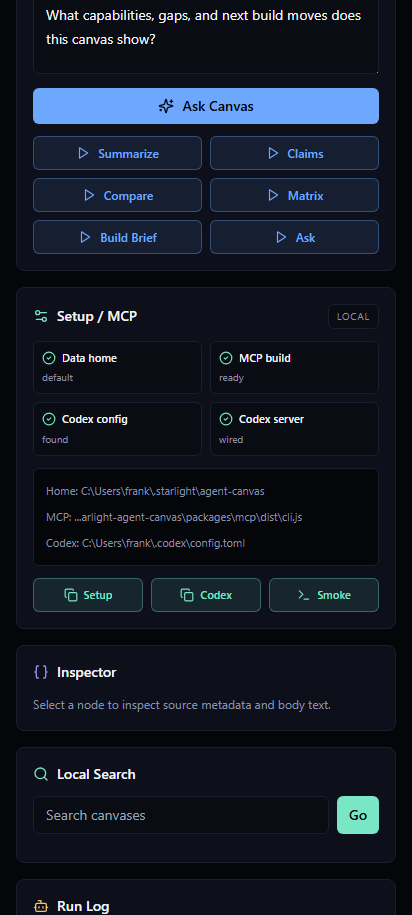
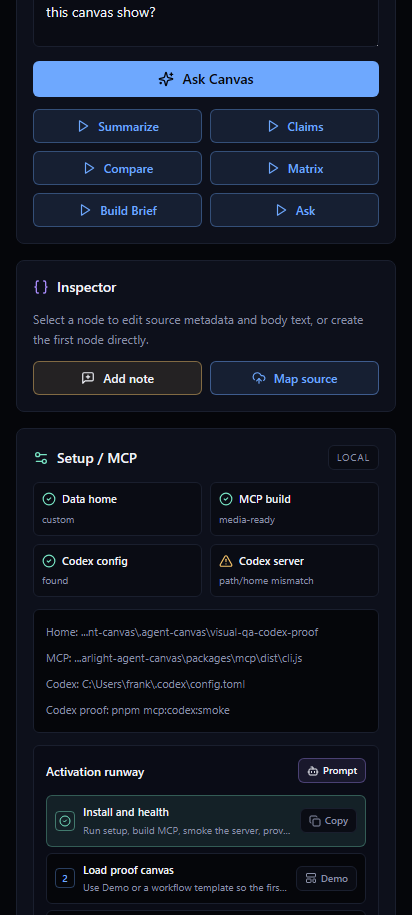
Prove Codex MCP config path

diff --git a/apps/web/app/api/setup/status/route.ts b/apps/web/app/api/setup/status/route.ts
@@ -24,6 +24,9 @@ type FirstSuccessContract = {
     codexUse: string;
     status: string;
   }>;
+  commands?: {
+    proof?: string[];
+  };
 };
 
 function getAgentCanvasHome(): string {
@@ -163,6 +166,7 @@ export async function GET() {
       configuredHome: codex.configuredHome,
       installDryRunCommand: 'pnpm mcp:install:codex',
       installWriteCommand: 'pnpm mcp:install:codex -- --write',
+      smokeCommand: 'pnpm mcp:codex:smoke',
     },
     setup: {
       localCommand: 'pnpm setup:local',
@@ -184,7 +188,7 @@ export async function GET() {
       contractCommand: 'pnpm first-success',
       jsonCommand: 'pnpm first-success:json',
       docs: ['docs/first-success.md', 'docs/first-success.contract.json', 'docs/operator-loop.md'],
-      proofCommands: ['pnpm first-run:check', 'pnpm canvas:smoke', 'pnpm mcp:smoke'],
+      proofCommands: firstSuccessContract.commands?.proof ?? ['pnpm first-run:check', 'pnpm canvas:smoke', 'pnpm mcp:smoke', 'pnpm mcp:codex:smoke'],
       phases: firstSuccessContract.phases.map((phase) => ({
         id: phase.id,
         label: phase.label,
@@ -234,7 +238,7 @@ export async function GET() {
         {
           id: 'install',
           label: 'Install and health',
-          detail: 'Run setup, build MCP, smoke the server, seed a canvas, and verify local health.',
+          detail: 'Run setup, build MCP, smoke the server, prove the Codex config path, seed a canvas, and verify local health.',
           command: 'node scripts/setup.mjs',
         },
         {

diff --git a/apps/web/tests/workspace.spec.ts b/apps/web/tests/workspace.spec.ts
@@ -19,7 +19,7 @@ test('workspace maps sources and answers from the canvas', async ({ page }, test
   const setupJson = await setupStatus.json() as {
     canvasHome: string;
     mcp: { smokeCommand: string };
-    codex: { installWriteCommand: string };
+    codex: { installWriteCommand: string; smokeCommand: string };
     adoption: { reportCommand: string; jsonCommand: string };
     firstSuccess: {
       schemaVersion: string;
@@ -35,11 +35,13 @@ test('workspace maps sources and answers from the canvas', async ({ page }, test
   expect(setupJson.canvasHome).toBeTruthy();
   expect(setupJson.mcp.smokeCommand).toBe('pnpm mcp:smoke');
   expect(setupJson.codex.installWriteCommand).toBe('pnpm mcp:install:codex -- --write');
+  expect(setupJson.codex.smokeCommand).toBe('pnpm mcp:codex:smoke');
   expect(setupJson.adoption.reportCommand).toBe('pnpm adoption:report');
   expect(setupJson.adoption.jsonCommand).toBe('pnpm adoption:report:json');
   expect(setupJson.firstSuccess.contractCommand).toBe('pnpm first-success');
   expect(setupJson.firstSuccess.jsonCommand).toBe('pnpm first-success:json');
   expect(setupJson.firstSuccess.proofCommands).toContain('pnpm first-run:check');
+  expect(setupJson.firstSuccess.proofCommands).toContain('pnpm mcp:codex:smoke');
   expect(setupJson.firstSuccess.schemaVersion).toBe('starlight.agentCanvas.firstSuccess.v1');
   expect(setupJson.firstSuccess.phases.map((phase) => phase.id)).toEqual(['install', 'open', 'capture', 'inspect', 'handoff', 'codex']);
   expect(setupJson.firstSuccess.inputContracts.map((contract) => contract.id)).toEqual(['youtube', 'video', 'image', 'web', 'pdf', 'text', 'note']);
@@ -79,6 +81,7 @@ test('workspace maps sources and answers from the canvas', async ({ page }, test
   await expect(page.getByTestId('operator-loop-map')).toContainText('no source');
   await expect(page.getByTestId('setup-panel')).toContainText('Setup / MCP');
   await expect(page.getByTestId('setup-panel')).toContainText('Codex server');
+  await expect(page.getByTestId('setup-panel')).toContainText('Codex proof');
   await expect(page.getByTestId('setup-codex-handoff')).toBeEnabled();
   await expect(page.getByTestId('agent-toolbelt')).toContainText('Agent toolbelt');
   await expect(page.getByTestId('agent-tool-get_latest_canvas')).toContainText('get_latest_canvas');

diff --git a/apps/web/components/WorkspaceClient.tsx b/apps/web/components/WorkspaceClient.tsx
@@ -182,6 +182,7 @@ type SetupStatus = {
     configuredHome: string;
     installDryRunCommand: string;
     installWriteCommand: string;
+    smokeCommand: string;
   };
   setup: {
     localCommand: string;
@@ -1053,6 +1054,7 @@ function WorkspaceInner() {
     { label: 'Setup', command: setupStatus.setup.localCommand },
     { label: 'Codex', command: setupStatus.codex.installWriteCommand },
     { label: 'Smoke', command: setupStatus.mcp.smokeCommand },
+    { label: 'Proof', command: setupStatus.codex.smokeCommand },
     { label: 'Report', command: setupStatus.adoption.reportCommand },
   ] : [], [setupStatus]);
   const activationRunway = useMemo(() => {
@@ -3997,6 +3999,7 @@ function WorkspaceInner() {
                     <div className="truncate">Home: {shortPath(setupStatus.canvasHome)}</div>
                     <div className="truncate">MCP: {shortPath(setupStatus.mcp.cliPath)}</div>
                     <div className="truncate">Codex: {shortPath(setupStatus.codex.configPath)}</div>
+                    <div className="truncate">Codex proof: {setupStatus.codex.smokeCommand}</div>
                   </div>
                   <div className="mt-3 rounded-md border border-starlight-border bg-starlight-surface/70 p-3" data-testid="activation-runway">
                     <div className="flex items-center justify-between gap-3">

diff --git a/docs/github-readiness.md b/docs/github-readiness.md
@@ -75,19 +75,20 @@ Use labels:
 7. Run `pnpm verify`.
 8. Run `pnpm canvas:smoke`.
 9. Run `pnpm mcp:smoke`.
-10. Run `pnpm first-run:check` to prove a fresh production preview can boot, import the demo canvas, and export context from a temporary data home.
-11. Run `pnpm test:e2e`.
-12. Confirm `/api/setup/status` exposes `activation.steps`, `firstSuccess.phases`, proof commands, and the Codex activation prompt.
-13. Run `pnpm setup:local -- --skip-install --skip-seed` as the install path smoke.
-14. Run `pnpm mcp:install:codex` and verify the dry-run block points at the built MCP server; after `--write`, rerun `pnpm doctor`.
-15. Run the Starlight staged/full security scan.
-16. Confirm visual QA screenshots are current.
-17. Confirm `AGENT_CANVAS_HOME` runtime data is not staged.
-18. Confirm `.env` and private canvas exports are not staged.
-19. Confirm `pnpm release:audit` reports required public files are tracked or staged, not merely present in the local working tree.
-20. Update README links and docs index.
-21. Keep CODEOWNERS pointed at the active maintainer account or team before enforcing owner review.
-22. Tag release only after GitHub CI passes.
+10. Run `pnpm mcp:codex:smoke` to prove the Codex config installer through a temporary config and temporary canvas home without mutating the real user config.
+11. Run `pnpm first-run:check` to prove a fresh production preview can boot, import the demo canvas, and export context from a temporary data home.
+12. Run `pnpm test:e2e`.
+13. Confirm `/api/setup/status` exposes `activation.steps`, `firstSuccess.phases`, proof commands, and the Codex activation prompt.
+14. Run `pnpm setup:local -- --skip-install --skip-seed` as the install path smoke.
+15. Run `pnpm mcp:install:codex` and verify the dry-run block points at the built MCP server; after `--write`, rerun `pnpm doctor`.
+16. Run the Starlight staged/full security scan.
+17. Confirm visual QA screenshots are current.
+18. Confirm `AGENT_CANVAS_HOME` runtime data is not staged.
+19. Confirm `.env` and private canvas exports are not staged.
+20. Confirm `pnpm release:audit` reports required public files are tracked or staged, not merely present in the local working tree.
+21. Update README links and docs index.
+22. Keep CODEOWNERS pointed at the active maintainer account or team before enforcing owner review.
+23. Tag release only after GitHub CI passes.
 
 Public install proof to keep current:
 
@@ -100,7 +101,7 @@ node scripts/setup.mjs
 pnpm dev
 ```
 
-The setup script must remain explicit about what it does: dependency install, doctor, MCP build, MCP smoke, seed, and Codex config dry-run unless `--codex-write` is supplied.
+The setup script must remain explicit about what it does: dependency install, doctor, MCP build, MCP smoke, Codex config smoke, seed, and Codex config dry-run unless `--codex-write` is supplied.
 
 Use `docs/readiness-evidence.md` as the current proof matrix before tagging or announcing a release. Use `docs/release-audit.md` for the local machine-checkable release gate.
 

diff --git a/docs/install.md b/docs/install.md
@@ -66,8 +66,9 @@ The setup script:
 2. Builds the MCP server.
 3. Runs `pnpm doctor`.
 4. Runs the MCP smoke test against a throwaway local data home.
-5. Seeds the `Starlight Agent Canvas OS` local canvas.
-6. Prints the Codex MCP config block as a dry-run.
+5. Runs the Codex config smoke test against a temporary config and data home.
+6. Seeds the `Starlight Agent Canvas OS` local canvas.
+7. Prints the Codex MCP config block as a dry-run.
 
 Optional flags:
 
@@ -82,6 +83,7 @@ node scripts/setup.mjs --skip-seed
 `--codex-write` updates `~/.codex/config.toml` and creates a timestamped backup first.
 
 `pnpm doctor` verifies the local prerequisites, workspace files, built MCP server, `.mcp.json`, and Codex wiring. The Codex check only reports fully wired when the installed config points at this repository's current `packages/mcp/dist/cli.js` and the active `AGENT_CANVAS_HOME`.
+`pnpm mcp:codex:smoke` verifies the same installer path without touching your real Codex config. It writes a temporary Codex config, points it at a temporary `AGENT_CANVAS_HOME`, runs `doctor --config` against that file, and cleans up.
 
 Machine-readable install status is available for agents, CI, and setup automation:
 
@@ -206,9 +208,11 @@ pnpm mcp:config -- --client json
 pnpm mcp:install:codex
 pnpm mcp:install:codex -- --write
 pnpm mcp:smoke
+pnpm mcp:codex:smoke
 ```
 
 `pnpm mcp:install:codex` is a dry-run. It prints the target config path and the exact TOML block. Add `-- --write` to install or replace only the `starlight-agent-canvas` MCP sections in Codex config, preserving unrelated settings and creating a backup first.
+Run `pnpm mcp:codex:smoke` before writing when you want non-mutating proof that the generated block is parseable by `doctor`.
 
 Use generated config for real MCP clients because it prints absolute paths for the current machine:
 
@@ -239,6 +243,7 @@ The same exports are available from the terminal with `pnpm canvas -- export <ca
 ## Troubleshooting
 
 - `pnpm doctor` warns that the MCP server is not built: run `pnpm mcp:build`.
+- `pnpm mcp:codex:smoke` fails: run `pnpm mcp:build`, then rerun the smoke. It uses temp files, so failures do not modify your real Codex config.
 - `pnpm doctor` says Codex has a path/home mismatch: run `pnpm mcp:install:codex -- --write`, restart Codex, then run `pnpm doctor` again.
 - The app cannot find canvases: check `AGENT_CANVAS_HOME`.
 - `Paste & Map` says clipboard read was blocked or empty: the composer is focused on purpose. Press `Ctrl+V` in that field, type manually, or drop the source onto the graph.

diff --git a/README.md b/README.md
@@ -107,9 +107,10 @@ node scripts/setup.mjs --skip-install
 pnpm dev
 ```
 
-`node scripts/setup.mjs` runs dependency install, MCP build, doctor, MCP smoke, Starlight OS canvas seed, and a dry-run Codex MCP config print. Use `node scripts/setup.mjs --codex-write` when you want it to update `~/.codex/config.toml` with a timestamped backup.
+`node scripts/setup.mjs` runs dependency install, MCP build, doctor, MCP smoke, Codex config smoke, Starlight OS canvas seed, and a dry-run Codex MCP config print. Use `node scripts/setup.mjs --codex-write` when you want it to update `~/.codex/config.toml` with a timestamped backup.
 
 `pnpm doctor` now verifies local prerequisites, workspace files, the built MCP server, `.mcp.json`, and whether Codex is wired to this exact MCP CLI path and `AGENT_CANVAS_HOME`.
+`pnpm mcp:codex:smoke` proves the Codex installer path without mutating your real Codex config: it writes a temporary `config.toml`, runs `doctor --config` against that file, and removes the temp files.
 `pnpm first-success` prints the maintained human plus Codex activation contract; `pnpm first-success:json` emits the same contract for agents, setup helpers, issue triage, and CI.
 `pnpm adoption:report` turns doctor, release audit, demo proof, visual evidence, GitHub metadata, and Codex MCP status into one human-readable adoption snapshot; `pnpm adoption:report:json` emits the same contract for agents and CI.
 
@@ -120,6 +121,7 @@ pnpm install
 pnpm doctor
 pnpm mcp:build
 pnpm mcp:smoke
+pnpm mcp:codex:smoke
 pnpm canvas:smoke
 pnpm seed:starlight
 pnpm dev
@@ -175,6 +177,7 @@ pnpm mcp:config -- --client json
 pnpm mcp:install:codex
 pnpm mcp:install:codex -- --write
 pnpm mcp:smoke
+pnpm mcp:codex:smoke
 ```
 
 `pnpm mcp:start` is only for manual stdio debugging. Normal MCP clients spawn the server from the generated config. For Codex-specific operating guidance, see `docs/codex-integration.md`.
@@ -238,10 +241,11 @@ pnpm verify
 pnpm first-run:check
 pnpm canvas:smoke
 pnpm mcp:smoke
+pnpm mcp:codex:smoke
 pnpm test:e2e
 ```
 
-`pnpm first-success` is the explicit install-to-Codex success contract. `pnpm adoption:report` is the single adoption snapshot for humans and agents. It reads doctor JSON, first-success JSON, release audit JSON, demo canvas proof, visual evidence, Git/GitHub status, and Codex MCP path/home without mutating local data. `pnpm release:audit` checks GitHub/OSS files, install docs, required scripts, CI gates, first-success shape, demo canvas proof, visual evidence, env hygiene, and runtime-data safety. `pnpm verify` runs typecheck, unit/MCP tests, and production build. `pnpm doctor` verifies install and Codex wiring health; `pnpm doctor:json` emits the same health contract for agents, CI, and setup automation. `pnpm first-run:check` builds the production app, uses a temporary data home, starts a local preview, verifies setup status, imports the demo canvas, checks context export, proves mixed YouTube/video/image/web/text intake through `/api/canvases/:id/ingest/anything`, runs a local action, and shuts the preview down. `pnpm canvas:smoke` proves terminal demo import, list, search, context export, and Codex handoff export. `pnpm mcp:smoke` proves stdio source ingest, node update, action, import, and JSON/Markdown/context/Codex export against a local throwaway data home. `pnpm test:e2e` runs the desktop/mobile Playwright workflow.
+`pnpm first-success` is the explicit install-to-Codex success contract. `pnpm adoption:report` is the single adoption snapshot for humans and agents. It reads doctor JSON, first-success JSON, release audit JSON, demo canvas proof, visual evidence, Git/GitHub status, and Codex MCP path/home without mutating local data. `pnpm release:audit` checks GitHub/OSS files, install docs, required scripts, CI gates, first-success shape, demo canvas proof, visual evidence, env hygiene, and runtime-data safety. `pnpm verify` runs typecheck, unit/MCP tests, and production build. `pnpm doctor` verifies install and Codex wiring health; `pnpm doctor:json` emits the same health contract for agents, CI, and setup automation. `pnpm first-run:check` builds the production app, uses a temporary data home, starts a local preview, verifies setup status, imports the demo canvas, checks context export, proves mixed YouTube/video/image/web/text intake through `/api/canvases/:id/ingest/anything`, runs a local action, and shuts the preview down. `pnpm canvas:smoke` proves terminal demo import, list, search, context export, and Codex handoff export. `pnpm mcp:smoke` proves stdio source ingest, node update, action, import, and JSON/Markdown/context/Codex export against a local throwaway data home. `pnpm mcp:codex:smoke` proves the generated Codex MCP config path with a temporary config and temporary `AGENT_CANVAS_HOME`. `pnpm test:e2e` runs the desktop/mobile Playwright workflow.
 
 ## Technology
 

diff --git a/docs/codex-integration.md b/docs/codex-integration.md
@@ -10,13 +10,14 @@ Fast path:
 node scripts/setup.mjs --codex-write
 ```
 
-This installs dependencies, builds the MCP server, runs doctor, smoke-tests MCP, seeds the Starlight OS canvas, then updates Codex config with a timestamped backup.
+This installs dependencies, builds the MCP server, runs doctor, smoke-tests MCP, smoke-tests temporary Codex config installation, seeds the Starlight OS canvas, then updates Codex config with a timestamped backup.
 
 Manual path:
 
 ```powershell
 pnpm mcp:build
 pnpm mcp:smoke
+pnpm mcp:codex:smoke
 pnpm mcp:config -- --client codex
 pnpm mcp:install:codex
 pnpm mcp:install:codex -- --write
@@ -37,6 +38,7 @@ AGENT_CANVAS_HOME = "/absolute/path/to/.starlight/agent-canvas"
 Run `pnpm doctor` any time the local setup feels uncertain.
 It verifies that Codex has the `starlight-agent-canvas` server/env blocks and that they point at this repo's current built MCP CLI plus the active `AGENT_CANVAS_HOME`.
 It also verifies that the built core/MCP artifacts include the current video and image node/tool schema, which catches stale MCP builds after source media support changes.
+Run `pnpm mcp:codex:smoke` when you want non-mutating proof that the Codex installer and doctor agree: the smoke script writes a temporary `config.toml`, uses a temporary canvas home, verifies it with `doctor --config`, and removes the temporary files.
 The in-app `Setup / MCP` panel also exposes the activation runway and a copyable Codex activation prompt backed by `/api/setup/status`.
 It also exposes the First Success contract so Codex and the human share the same install/open/capture/inspect/handoff/Codex loop.
 It also exposes the Agent toolbelt so the human can see the MCP sequence Codex should use: `get_latest_canvas`, `ingest_anything`, `enrich_source_node`, `run_node_action`, and `export_canvas`.
@@ -62,6 +64,7 @@ Optional terminal bridge:
 
 ```powershell
 pnpm adoption:report
+pnpm mcp:codex:smoke
 pnpm canvas -- list
 pnpm canvas -- demo
 pnpm canvas -- export latest --format context --out .agent-canvas/latest-context.md

diff --git a/docs/activation.md b/docs/activation.md
@@ -6,7 +6,7 @@ The activation runway is the first successful loop for Starlight Agent Canvas. I
 
 1. Install and health
    - Run `node scripts/setup.mjs`.
-   - This installs dependencies, builds MCP, runs doctor, smoke-tests MCP, seeds the Starlight canvas, and prints Codex config as a dry-run.
+   - This installs dependencies, builds MCP, runs doctor, smoke-tests MCP, smoke-tests temporary Codex config installation, seeds the Starlight canvas, and prints Codex config as a dry-run.
    - Proof: `pnpm doctor:json` has `summary.fail === 0`.
    - First-success contract: `pnpm first-success` shows the maintained install-to-Codex path.
    - Adoption snapshot: `pnpm adoption:report` shows install, release, demo, visual, GitHub, and Codex status in one place.
@@ -27,6 +27,7 @@ The activation runway is the first successful loop for Starlight Agent Canvas. I
 
 5. Wire Codex MCP
    - Run `pnpm mcp:install:codex -- --write`.
+   - Run `pnpm mcp:codex:smoke` when you want a safe temp-config proof before or after the real write.
    - Restart Codex.
    - Run `pnpm doctor` again and confirm the Codex server, CLI path, and `AGENT_CANVAS_HOME` match.
 
@@ -66,6 +67,7 @@ pnpm adoption:report:json
 pnpm first-run:check
 pnpm canvas:smoke
 pnpm mcp:smoke
+pnpm mcp:codex:smoke
 pnpm test:e2e
 ```
 

diff --git a/docs/prd.md b/docs/prd.md
@@ -83,13 +83,14 @@ Turn mixed source material into reusable, inspectable, portable agent context. A
 
 - `pnpm doctor` explains local readiness and missing build steps.
 - `pnpm doctor:json` emits a stable pass/warn/fail health contract with repo root, canvas home, MCP CLI path, Codex config path, checks, and next steps.
+- `pnpm mcp:codex:smoke` proves the Codex installer and doctor config parser against a temporary Codex config and temporary canvas home without mutating the user's real Codex configuration.
 - `pnpm adoption:report` and `pnpm adoption:report:json` combine doctor health, release audit health, demo proof, visual evidence, Git/GitHub state, Codex MCP path/home, first-success commands, and a compact Codex prompt.
 - `pnpm first-success` and `pnpm first-success:json` expose the install/open/capture/inspect/handoff/Codex contract and supported input contracts.
 - The web workspace exposes a setup/MCP status panel backed by local status APIs, not hardcoded badges.
 - The setup/MCP status panel exposes the adoption report command and agent toolbelt from `/api/setup/status`.
 - `/api/setup/status` exposes an activation contract with steps, proof commands, and a Codex activation prompt.
 - `/api/setup/status` exposes `firstSuccess` with phases, supported-input mappings, proof commands, and first-success command copies from `docs/first-success.contract.json`.
-- `pnpm verify`, `pnpm test:e2e`, and `pnpm mcp:smoke` pass.
+- `pnpm verify`, `pnpm test:e2e`, `pnpm mcp:smoke`, and `pnpm mcp:codex:smoke` pass.
 - `pnpm canvas:smoke` passes and proves demo import, list, search, context export, and Codex handoff export from the terminal.
 - README links to install, PRD, user flows, MCP setup, Codex integration, system design, and production readiness.
 - GitHub has issue templates, PR template, CI, and a readiness checklist.

diff --git a/docs/production-readiness.md b/docs/production-readiness.md
@@ -10,6 +10,7 @@ pnpm release:audit
 pnpm verify
 pnpm canvas:smoke
 pnpm mcp:smoke
+pnpm mcp:codex:smoke
 pnpm test:e2e
 ```
 
@@ -57,7 +58,7 @@ Optional:
 
 1. Run local gates.
 2. Run `pnpm release:audit` for GitHub/OSS/docs/demo/visual/safety readiness.
-3. Verify MCP stdio smoke.
+3. Verify MCP stdio smoke and Codex config smoke.
 4. Capture desktop, mobile, and reduced-motion screenshots.
 5. Commit to `main`.
 6. Confirm the GitHub readiness checklist in `docs/github-readiness.md`.

diff --git a/docs/readiness-evidence.md b/docs/readiness-evidence.md
@@ -52,7 +52,8 @@ Latest local proof commit: use `git log --oneline -1`; this matrix tracks eviden
 | Adoption readiness is machine-readable and human-readable | `scripts/adoption-report.mjs`, `pnpm adoption:report`, `pnpm adoption:report:json`, `docs/adoption-report.md`, CI `adoption:report:json` step | Proven locally for combined doctor health, release audit health, demo proof, visual QA evidence, Git/GitHub metadata when available, Codex MCP path/home, first-success commands, and compact Codex prompt |
 | GitHub/release readiness is machine-checkable | `scripts/release-audit.mjs`, `pnpm release:audit`, `docs/release-audit.md`, CI `release:audit` step | Proven locally for required OSS/community files, docs, examples, scripts, CI gates, demo proof, visual evidence, env hygiene, tracked/staged public files, and runtime-data safety |
 | Public contributor governance exists | `CODE_OF_CONDUCT.md`, `SUPPORT.md`, `GOVERNANCE.md`, `MAINTAINERS.md`, `.github/CODEOWNERS`, `.github/ISSUE_TEMPLATE/config.yml`, `.github/pull_request_template.md` | Proven locally for project norms, support routing, governance boundaries, maintainer duties, CODEOWNERS placeholder, security-reporting contact link, and PR verification checklist |
-| Codex MCP can be installed safely | `scripts/install-codex-mcp.mjs`, `pnpm mcp:install:codex`, timestamped backup before `--write`, dry-run verification, and `pnpm doctor` path/home checks | Proven locally |
+| Codex MCP can be installed safely | `scripts/install-codex-mcp.mjs`, `pnpm mcp:install:codex`, timestamped backup before `--write`, dry-run verification, `pnpm doctor` path/home checks, and `pnpm mcp:codex:smoke` temp-config proof | Proven locally |
+| Codex config installer is CI-provable without mutating user config | `scripts/codex-config-smoke.mjs`, `scripts/doctor.mjs --config`, `pnpm mcp:codex:smoke`, release audit script checks, and CI gate | Proven locally for writing a temporary Codex config, verifying MCP CLI path/home through doctor, and cleaning up temp files |
 | Setup and Codex status are visible in the app | `apps/web/app/api/setup/status/route.ts`, `Setup / MCP` panel in `apps/web/components/WorkspaceClient.tsx`, Playwright setup-panel assertion; server is considered wired only when config sections, CLI path, and canvas home match | Proven locally |
 | Codex tool path is visible in the app | `agent` payload in `apps/web/app/api/setup/status/route.ts`, `agent-toolbelt` in `apps/web/components/WorkspaceClient.tsx`, Playwright setup assertions | Proven locally for visible `get_latest_canvas`, `ingest_anything`, `enrich_source_node`, `run_node_action`, `export_canvas`, adoption report command, terminal Codex handoff command, and agent prompt copy |
 | Primary composer explains Codex-readable context | `live-intake-helper` in `apps/web/components/WorkspaceClient.tsx`, Playwright assertion in `apps/web/tests/workspace.spec.ts`; new visual evidence pending after this slice | Proven locally for persistent first-viewport copy on blank and existing canvases |

diff --git a/docs/first-success.md b/docs/first-success.md
@@ -35,6 +35,6 @@ pnpm first-success -- --out .agent-canvas/first-success.md
 3. Capture: paste/drop/upload/type source context in the first viewport.
 4. Inspect: select the source/output and review receipts, chunks, citations, and body text.
 5. Handoff: copy `Context`, copy `Codex`, or export from CLI.
-6. Codex: wire MCP, restart Codex, and operate on the latest canvas.
+6. Codex: prove the generated config with `pnpm mcp:codex:smoke`, wire MCP when ready, restart Codex, and operate on the latest canvas.
 
 The same loop is visible in the app through `Setup / MCP`, enforced by `pnpm release:audit`, and included in the adoption report.